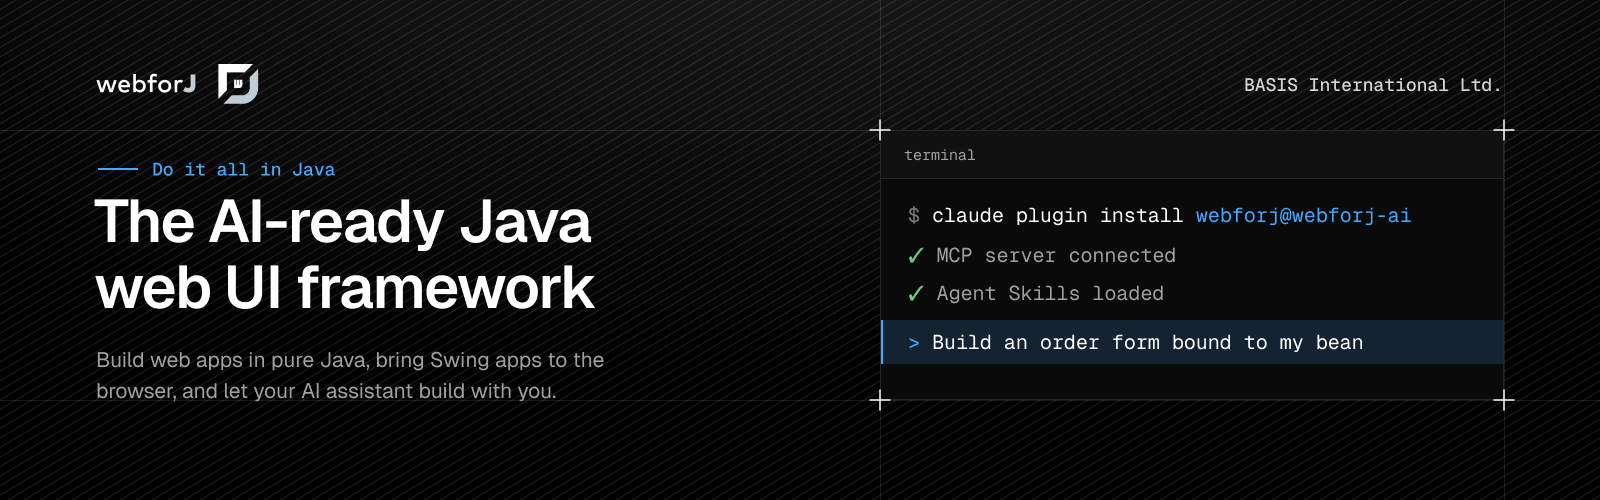
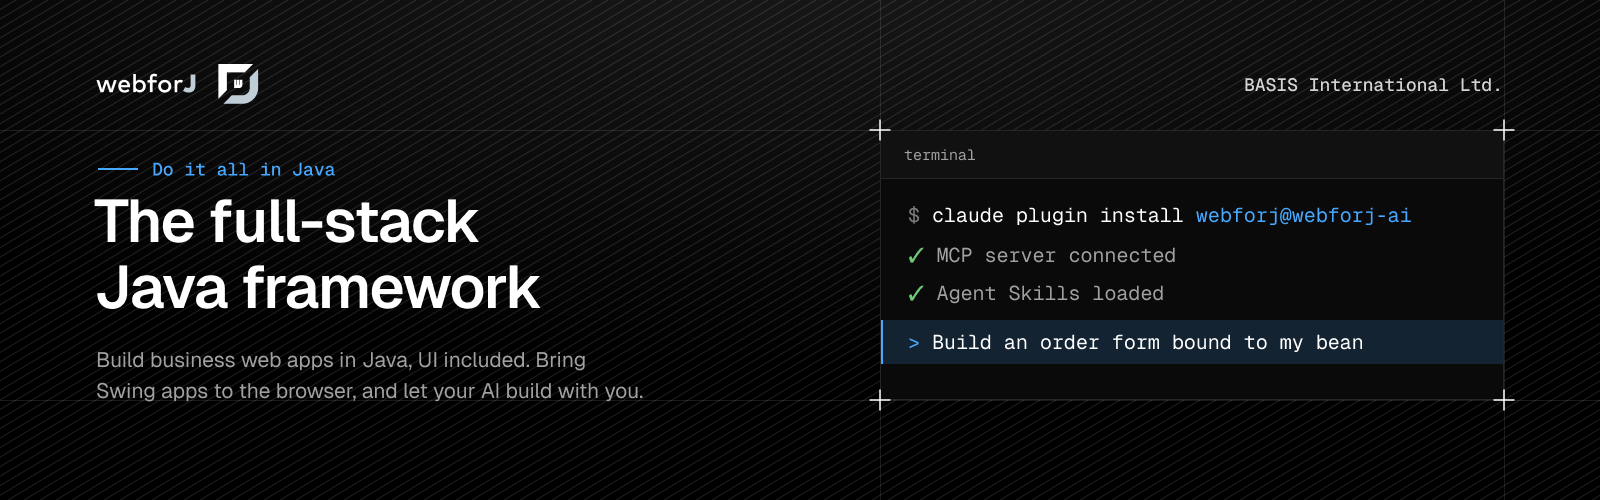
docs: position webforJ as the full-stack Java framework in org profile
New cover headline and copy, plus a Stay in touch section with help and follow links.

Changed region(s): [[0.0625, 0.69, 0.4062, 0.81], [0.0625, 0.51, 0.375, 0.63], [0.125, 0.39, 0.375, 0.51]]

diff --git a/profile/README.md b/profile/README.md
@@ -1,10 +1,10 @@
 <div align="center">
 
-![webforJ: the AI-ready Java web UI framework for building web apps and modernizing Swing apps in Java](./cover.png)
+![webforJ: the full-stack Java framework for building business web apps and modernizing Swing apps in Java](./cover.png)
 
 **The frontend is Java now.**
 
-Build web apps in pure Java, edit them visually while they run, and bring your Swing apps along. webforJ is the AI-ready Java web UI framework, and your AI assistant already knows it. Backed by BASIS International's almost 40 years of expertise, including 20+ years of delivering technology built on Java.
+Build web apps in pure Java, edit them visually while they run, and bring your Swing apps along. webforJ is the full-stack Java framework for business web apps: you build the whole app, UI included, in Java, and your AI assistant already knows it. Backed by BASIS International's almost 40 years of expertise, including 20+ years of delivering technology built on Java.
 
 [![Latest Release](https://img.shields.io/maven-metadata/v.svg?label=Latest&&color=022495&metadataUrl=https%3A%2F%2Frepo1.maven.org%2Fmaven2%2Fcom%2Fwebforj%2Fwebforj-parent%2Fmaven-metadata.xml)](https://github.com/webforj/webforj/releases)
 [![License: MIT](https://img.shields.io/badge/License-MIT-022495)](https://github.com/webforj/webforj/blob/main/LICENSE)
@@ -15,7 +15,7 @@ Build web apps in pure Java, edit them visually while they run, and bring your S
 
 ## No JavaScript to write. Just Java.
 
-Your views are Java classes, and there's no REST layer between your UI and your backend. Your Spring services go straight into the view.
+Your views are Java classes, and there's no REST layer between your UI and your backend. Your Spring services go straight into the view. Routing, forms with binding and validation, tables, security and translation come with the framework, so one Java web framework covers the whole app.
 
 ```java
 @Route("/orders")
@@ -90,6 +90,16 @@ Every component comes from one design system, so screen 200 looks like screen 1.
 ## Build it with us
 
 Found a bug or have an idea? Open an issue in [webforj](https://github.com/webforj/webforj). Not sure where it belongs? Post it there and we'll route it. To contribute code, read the [contributing guide](https://github.com/webforj/webforj/blob/main/CONTRIBUTING.md).
+
+## Stay in touch
+
+Ask a question, report a bug or plan a project with the team. We speak English, German, French and Spanish.
+
[1 lines of base64/hex data omitted]
+
+Follow webforJ for releases, tutorials and videos.
+
[1 lines of base64/hex data omitted]
 
 ---
 
